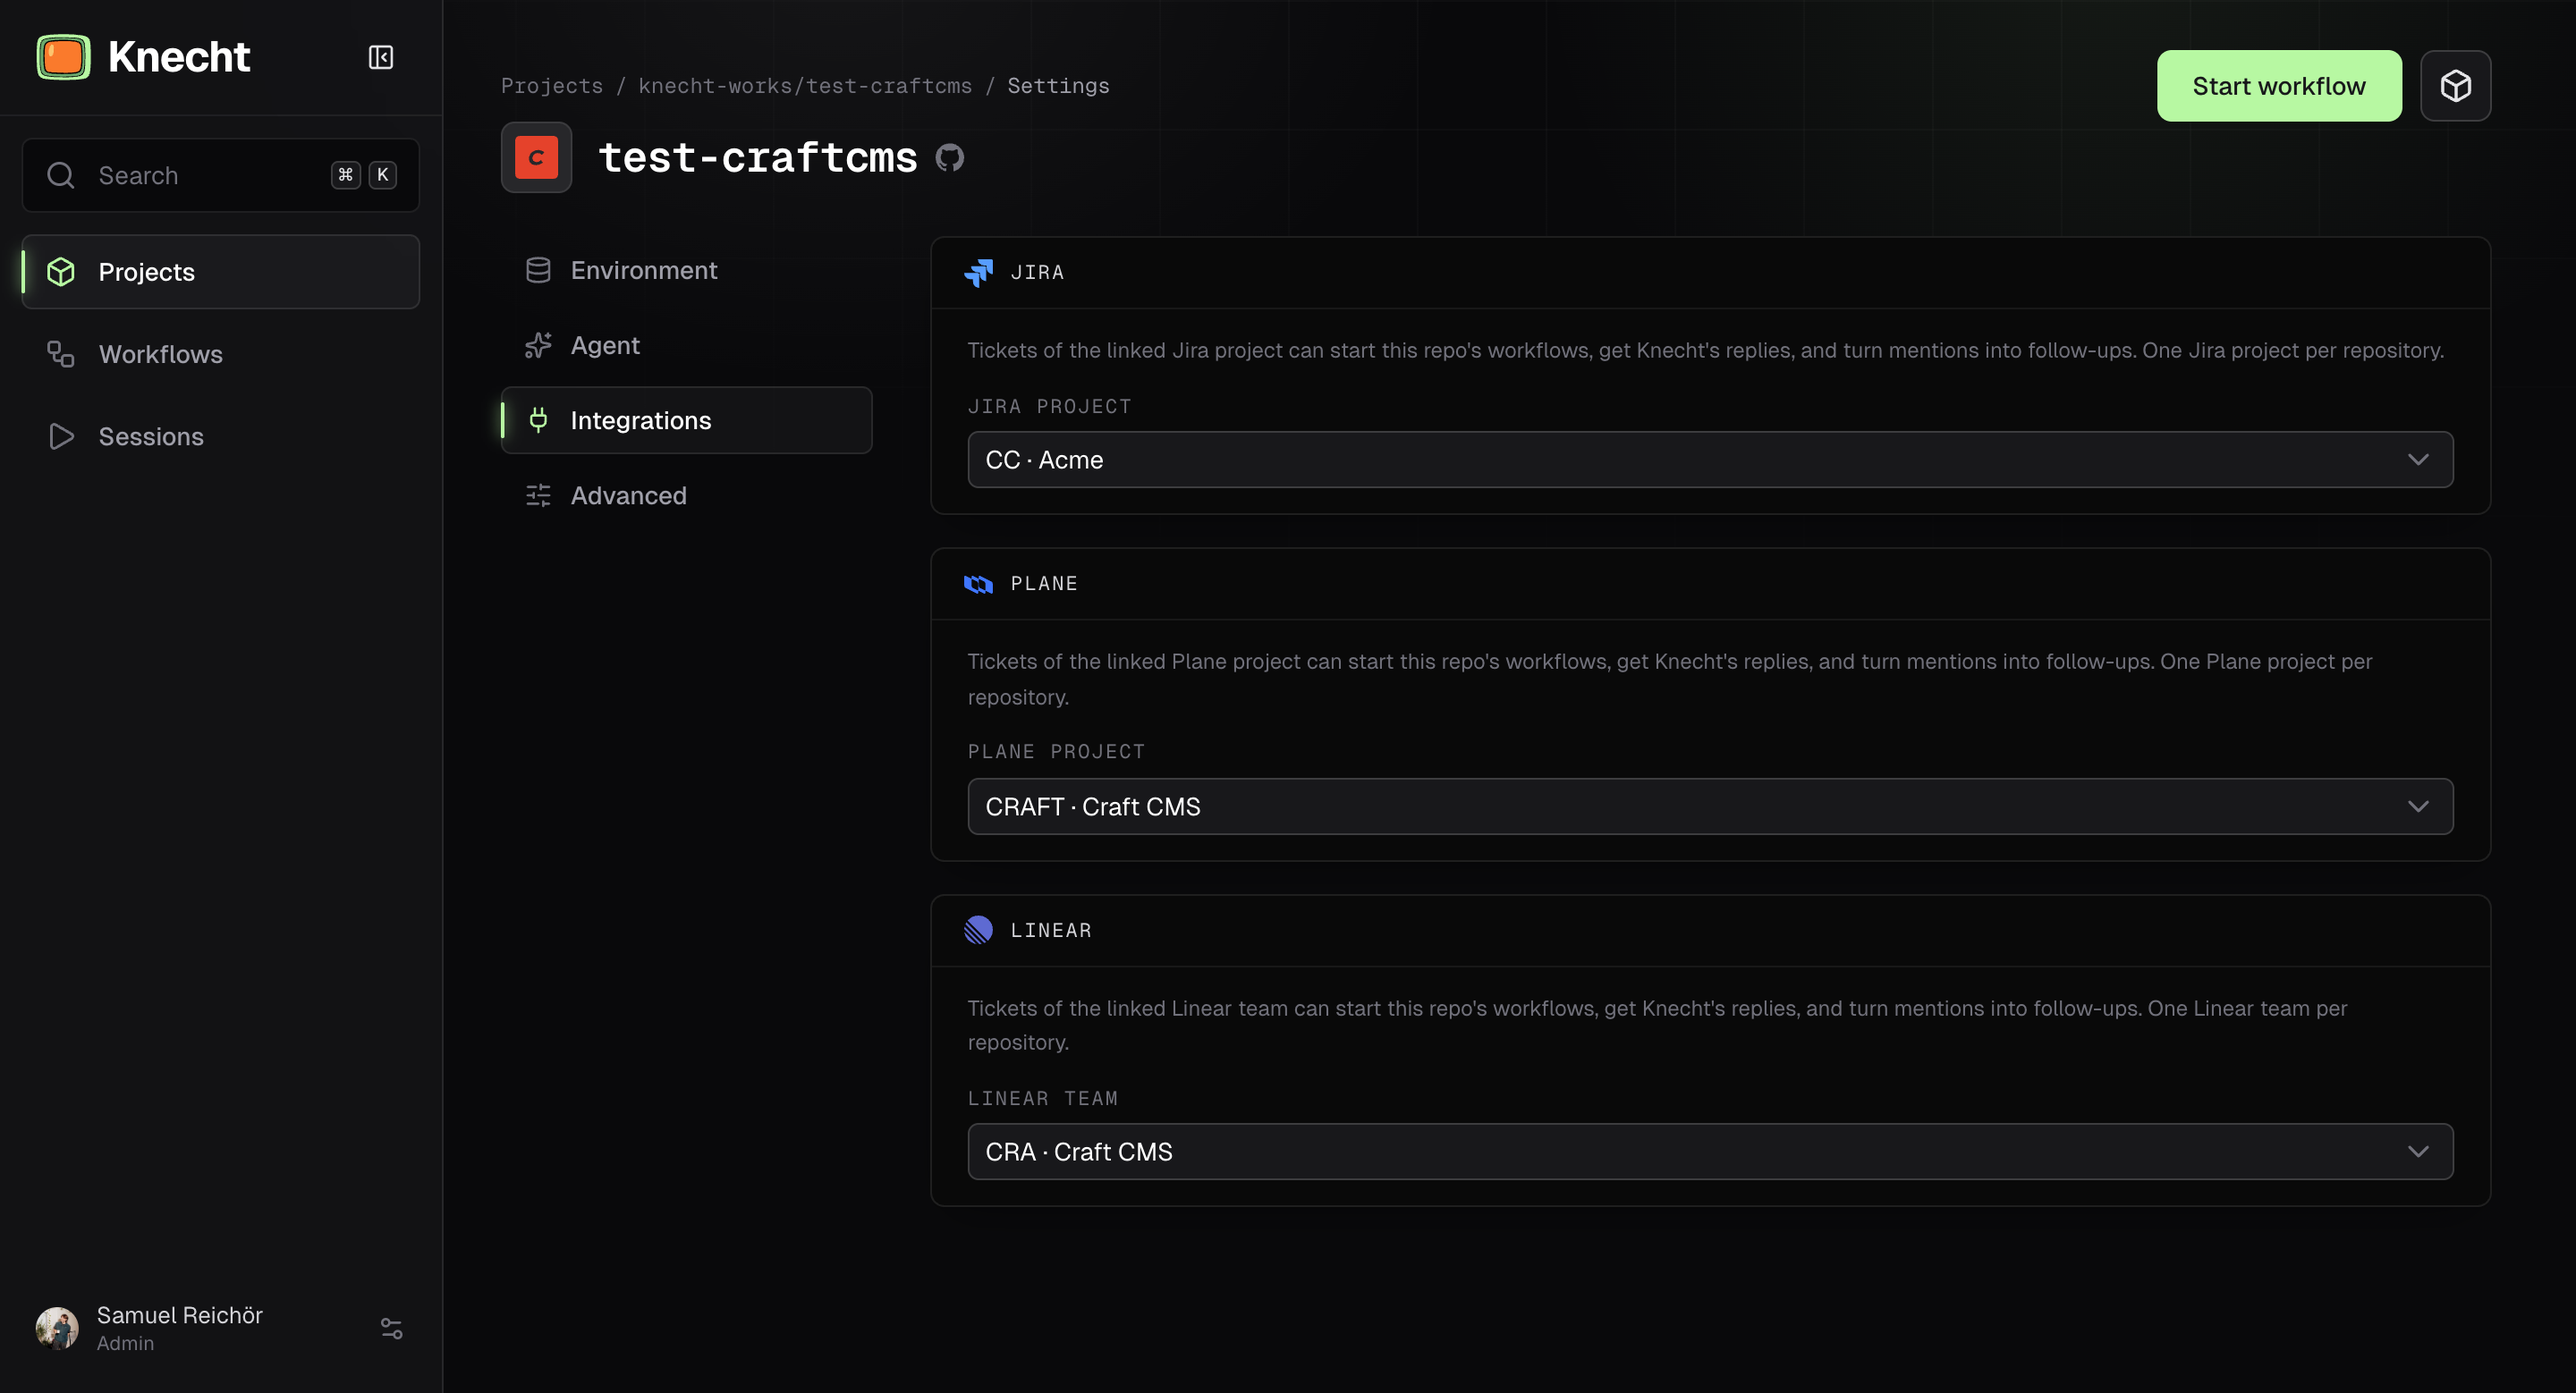
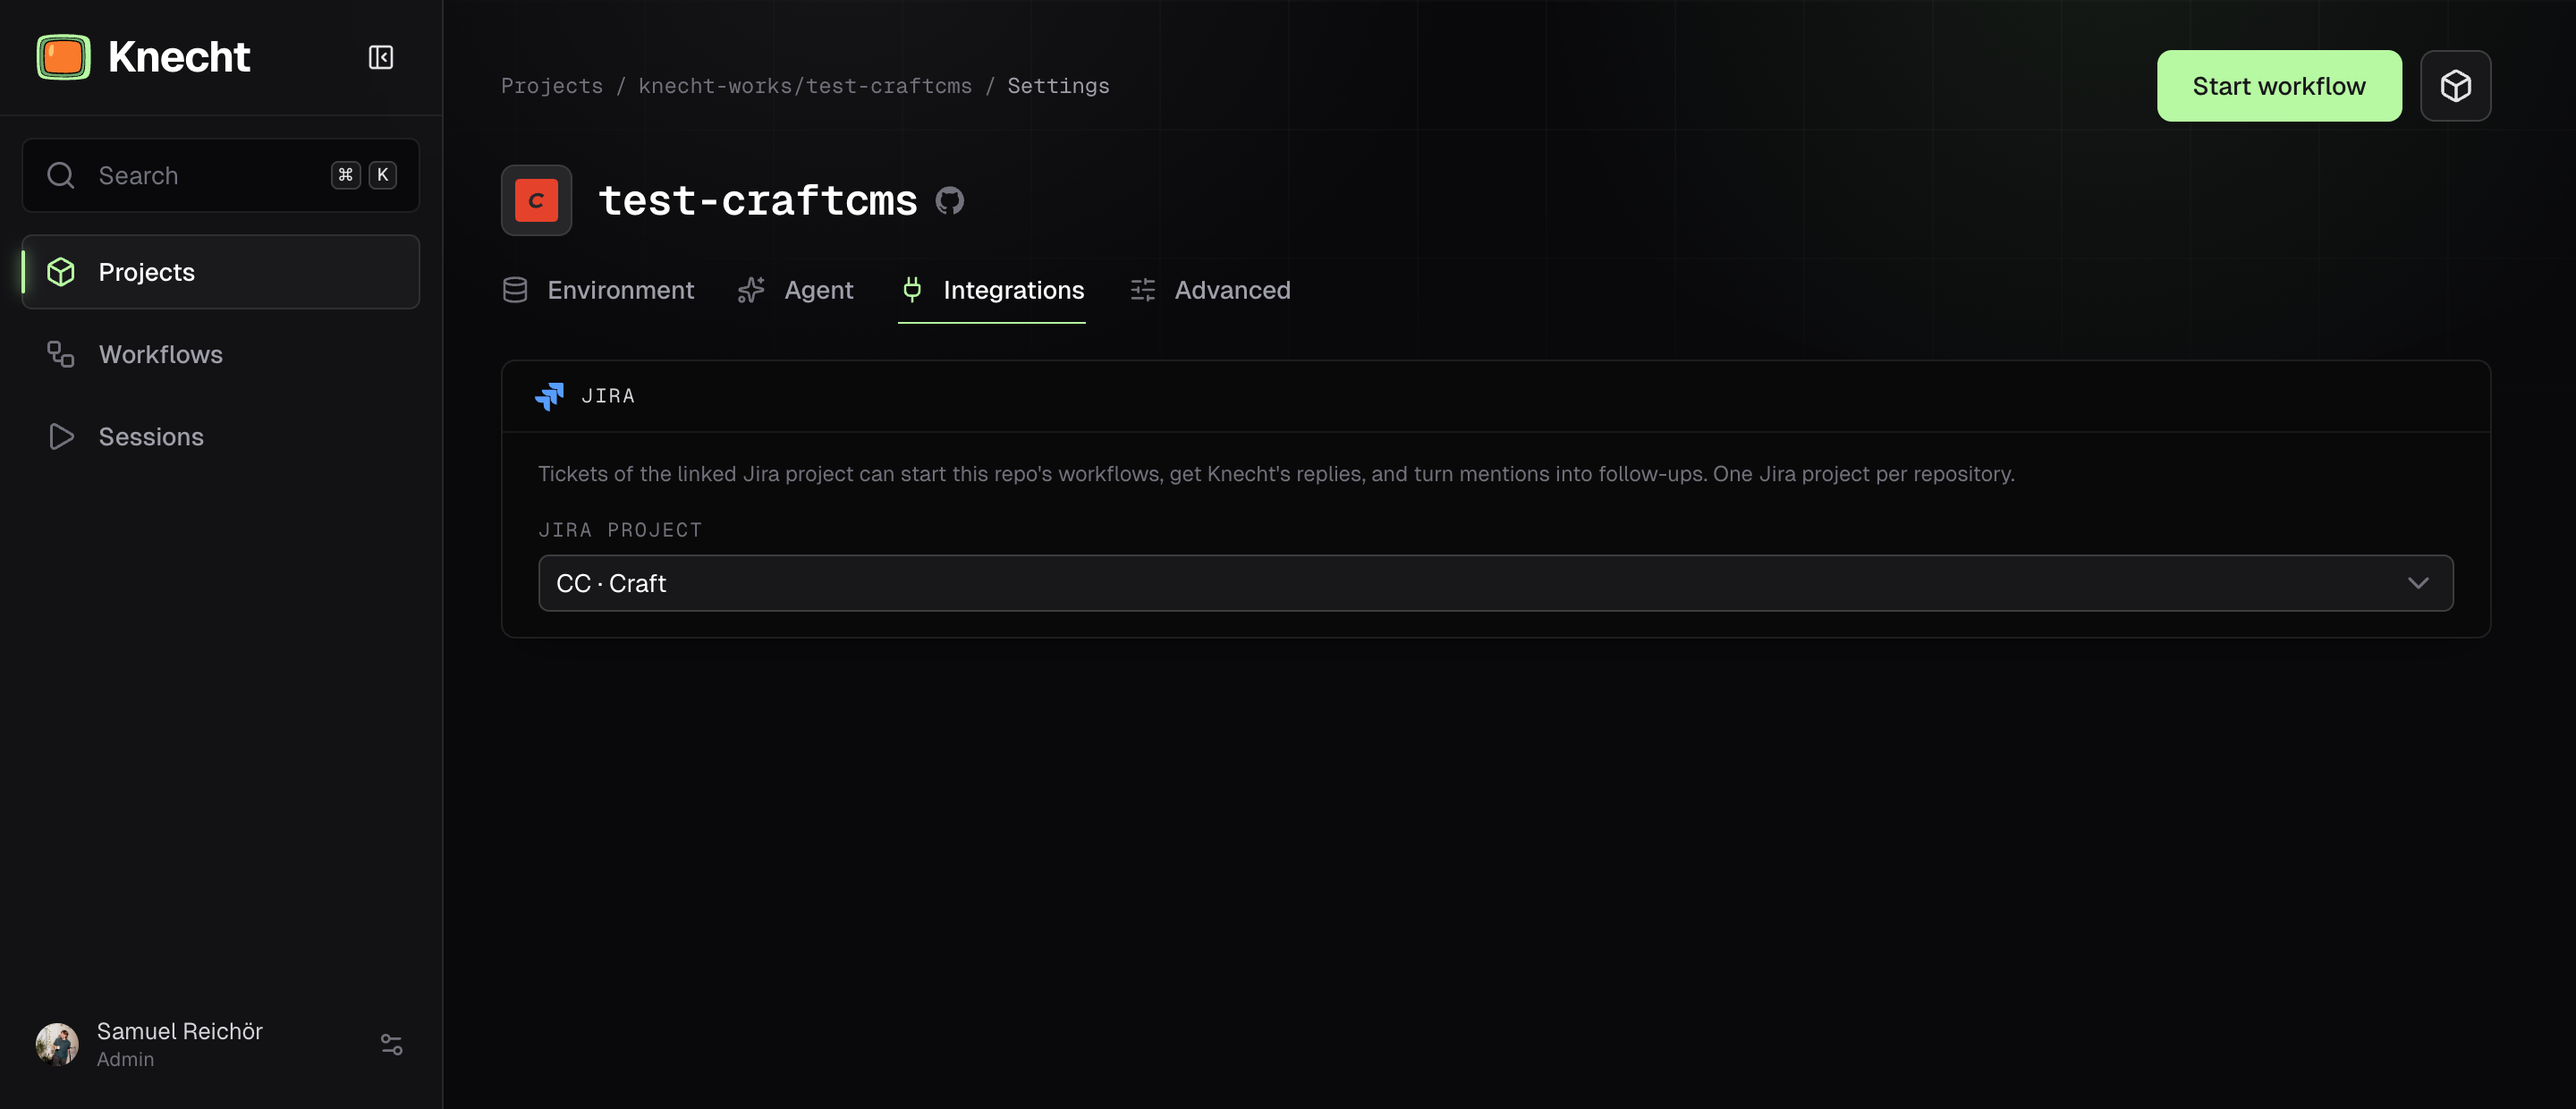
docs: Update docs for v0.16 with new project settings and lightweight containers

diff --git a/content/en/docs/1.get-started/2.concepts.md b/content/en/docs/1.get-started/2.concepts.md
@@ -3,13 +3,13 @@ title: Concepts
 description: The pieces you meet in the dashboard and how they fit together.
 ---
 
-A trigger starts a workflow on a project. Knecht boots the project in a session, runs the steps in order, and delivers what the last steps produced. This page explains each of these pieces, in the order a run touches them, and how the environments are isolated from each other.
+A trigger starts a workflow on a project. Knecht checks the project out in a session, runs the steps in order, boots the full environment when a step asks for it, and delivers what the last steps produced. This page explains each of these pieces, in the order a run touches them, and how the environments are isolated from each other.
 
 ![A project, a GitHub issue as trigger, a session with two runs and a follow-up mention, and a pull request and preview as result](/assets/knecht-concepts.png)
 
 ## Projects
 
-A project is a GitHub repository connected to Knecht. If the repo already ships a `.ddev/config.yaml`, Knecht boots from it as it is. If not, Knecht reads `composer.json`, `package.json`, `.nvmrc`, and the lockfile, and generates the environment itself. Environment variables and a database dump are stored on the project, so every run starts from a working state.
+A project is a GitHub repository connected to Knecht. If the repo already ships a `.ddev/config.yaml`, Knecht boots from it as it is. If not, Knecht reads `composer.json`, `package.json`, `.nvmrc`, and the lockfile, and generates the environment itself; the database, if the project needs one, is picked in the project settings. Environment variables and a database dump are stored on the project, so every run starts from a working state.
 
 Adding and configuring projects is covered on [Projects](/docs/usage/projects).
 
@@ -31,7 +31,9 @@ The agent, its instructions, and its memory are covered on [AI Agent](/docs/usag
 
 ## Sessions
 
-A session belongs to one GitHub issue or pull request, or to one issue in a connected issue tracker. It holds the checkout, the environment, and one shared agent conversation, so a follow-up mention continues where the last run stopped instead of starting over. The session closes with the issue and revives if the issue is reopened. Events without an issue, such as a schedule or a manual start, get a session of their own that closes after the single run.
+A session belongs to one GitHub issue or pull request, or to one issue in a connected issue tracker. It holds the checkout, one shared agent conversation, and, once a workflow has booted the project, the environment with its database and preview. A follow-up mention therefore continues where the last run stopped instead of starting over.
+
+A session starts light. Its steps, follow-ups, terminal, and IDE run in a workspace container that holds the checkout and the project's tools and starts in about a second. The "Boot project" step boots the full environment and turns the session into a preview session for good: every later step runs in the environment, and the session keeps its database and preview across runs. The session closes with the issue and revives if the issue is reopened. Events without an issue, such as a schedule or a manual start, get a session of their own that closes after the single run.
 
 ## Runs
 
@@ -41,14 +43,14 @@ A run is one execution of a workflow inside a session. Two triggers on the same 
 
 ## Previews
 
-Every session gets a preview URL. It shows the current state of the environment, stays the same across all runs of the session, and needs a Knecht login to open.
+Every session that has booted the project gets a preview URL. It shows the current state of the environment, stays the same across all runs of the session, and needs a Knecht login to open.
 
 ## Isolation
 
 Every session runs in its own environment on your server. Nothing inside it can reach the host or another session.
 
-- **Own checkout and containers.** A session gets its own clone of the repository and its own [DDEV](https://ddev.com) project, with a separate web container, database container, and volumes. Two sessions of the same project never share files or a database.
-- **Commands run inside the container.** Shell commands, JavaScript steps, the agent, the terminal, and the IDE all execute inside the session's web container as an unprivileged user. The Docker socket and the DDEV CLI stay on the Knecht side, so a step cannot start containers or touch the host.
+- **Own checkout and containers.** A session gets its own clone of the repository, its own workspace container, and, once booted, its own [DDEV](https://ddev.com) project with a separate web container, database container, and volumes. Two sessions of the same project never share files or a database.
+- **Commands run inside the container.** Shell commands, JavaScript steps, the agent, the terminal, and the IDE all execute inside the session's container as an unprivileged user: the workspace before the boot step, the web container after it. The Docker socket and the DDEV CLI stay on the Knecht side, so a step cannot start containers or touch the host.
 - **Sessions cannot see each other.** The containers are detached from DDEV's shared network and attached only to Knecht's ingress network. No ports are published on the host. Previews go through Knecht's proxy, container to container, behind the login.
 - **Short-lived credentials.** Git pushes from a session use an installation token that is scoped to the one repository and expires after about an hour. The AI key reaches the agent process as an environment variable, not as a file in the checkout.
 

diff --git a/content/en/docs/2.usage/1.projects.md b/content/en/docs/2.usage/1.projects.md
@@ -42,6 +42,7 @@ Without one, Knecht generates an environment from:
 - The PHP version from `composer.json`.
 - The Node version from `.nvmrc`, `engines.node`, a mise config, or `.tool-versions`.
 - The package manager from the lockfile.
+- The database from the project settings: MariaDB, MySQL, or PostgreSQL in the versions DDEV supports, or none. Without a choice the environment has no database container.
 
 ::note
 If a project outside the tested list misbehaves, that is a bug worth reporting. One known difference to local DDEV concerns Vite dev servers, which in some setups need one line of config. The cases are collected on [Troubleshooting](/docs/resources/troubleshooting).
@@ -62,12 +63,12 @@ Pick a repository from those the GitHub App is installed on, and a branch. It de
 Paste the project's `.env`, one `KEY=value` per line, or skip and add them later.
 
 ::tip
-Values can use `$KNECHT_PREVIEW_URL` and `$KNECHT_DEV_SERVER_URL`. Knecht fills them per run, so a variable such as `APP_URL=$KNECHT_PREVIEW_URL` always points at the current preview.
+Values can use `$KNECHT_PREVIEW_URL` and `$KNECHT_DEV_SERVER_URL`. Knecht fills them per run, so a variable such as `APP_URL=$KNECHT_PREVIEW_URL` always points at the current preview. The preview URL also resolves from inside the environment, so a server-rendered frontend that fetches from its own URL reaches itself.
 ::
 
 ### Import a Database
 
-Upload a dump as `.sql`, `.gz`, `.zip`, `.bz2`, `.xz`, `.tar`, or `.mysql`. It is imported into the environment on the first boot and stays there for later runs. Without a dump, the project boots with an empty database.
+Upload a dump as `.sql`, `.gz`, `.zip`, `.bz2`, `.xz`, `.tar`, or `.mysql`. It is imported into the environment on the first boot and stays there for later runs. Without a dump, the project boots with an empty database. A project without a ddev config needs a database picked in its settings first, otherwise the environment has none.
 
 ### Boot and Preview
 
@@ -79,4 +80,4 @@ The last step offers "Open project" and, as long as the bundled `boot-and-previe
 
 Everything from the guided setup lives in the project settings and can be changed there. "Settings" in the top right of the project page opens them. Beyond the setup values, the settings hold the Mentions panel with the starter workflow, a link panel for each connected issue tracker, and "Persistent folders" for files that should survive across runs.
 
-![The Environment page of the project settings, with panels for env variables, boot commands, environment, dev server, database dump, and persistent folders](/assets/knecht-project-settings.png)
+![The Environment tab of the project settings, with panels for env variables, boot commands, dev server, environment, database dump, and persistent folders](/assets/knecht-project-settings.png)

diff --git a/content/en/docs/1.get-started/1.introduction.md b/content/en/docs/1.get-started/1.introduction.md
@@ -25,7 +25,7 @@ It is aimed at agencies and freelancers that maintain many projects at once. The
 | Triggers | GitHub events, changes in an [issue tracker](/docs/usage/triggers#trigger-types), a schedule, or a click in the dashboard. One workflow can serve several projects. |
 | Mentions | `@knecht-works <instruction>` in a GitHub issue or pull request, or a mention of the Knecht account in an issue tracker, continues the work where the last run stopped. |
 | Previews | Every session gets a URL under your domain with a real database behind it, gated by the Knecht login. |
-| Terminal and IDE | Open a shell, an SSH command, or VS Code in the running environment from the run page. |
+| Terminal and IDE | Open a shell, an SSH command, or VS Code in the session's container from the run page, with or without a booted preview. |
 | Retry | A failed run resumes from the step where it stopped, earlier outputs are kept. |
 | Environment lifecycle | Idle environments are stopped, archived, and removed on schedules you set. |
 | Team access | Members sign in with GitHub. An allowlist decides who gets in. |

diff --git a/content/en/docs/1.get-started/3.installation.md b/content/en/docs/1.get-started/3.installation.md
@@ -27,6 +27,10 @@ Keep the host free of other Docker setups. Knecht boots the project environments
 
 The installer stops on other distributions. Other Ubuntu and Debian versions install with a warning, but are not tested.
 
+### Docker
+
+Docker 28 or newer. The installer installs it on a host without Docker. On a host with an older Docker it stops, upgrade Docker first and run it again.
+
 ### Hardware
 
 | | Minimum | Comfortable |
@@ -34,7 +38,7 @@ The installer stops on other distributions. Other Ubuntu and Debian versions ins
 | RAM | 4 GB | 8 GB |
 | Disk | 40 GB | 80 GB |
 
-Every running preview costs one web and one database container. More parallel previews need more RAM.
+Every running preview costs one web and one database container, a session without a preview one lightweight container. More parallel previews need more RAM.
 
 ### Domain and Network
 

diff --git a/content/en/docs/3.integrations/3.plane.md b/content/en/docs/3.integrations/3.plane.md
@@ -53,6 +53,8 @@ Knecht uses the work item events created, updated, archived, and deleted, and th
 
 Open the settings of a project in Knecht. The Plane panel has one field, "Plane project", listing the projects the account is a member of. Pick the one whose work items belong to this repository. One Plane project links to one repository and the other way round. Only linked projects can have Plane triggers.
 
+![The Integrations tab of the project settings, with the Plane panel and its Plane project field set to a project](/assets/knecht-project-settings-plane.png)
+
 ### Check That Events Arrive
 
 Edit any work item in the linked Plane project. The status line in the Plane panel under Settings, Integrations switches to "Receiving events" with the last event and work item key. If it does not:

diff --git a/content/en/docs/3.integrations/4.linear.md b/content/en/docs/3.integrations/4.linear.md
@@ -52,6 +52,8 @@ The form already shows the signing secret, it starts with `lin_wh_`. Copy it, cl
 
 Open the settings of a project in Knecht. The Linear panel has one field, "Linear team", listing the teams the account can access. Pick the one whose issues belong to this repository. One Linear team links to one repository and the other way round. Only linked projects can have Linear triggers.
 
+![The Integrations tab of the project settings, with the Linear panel and its Linear team field set to a team](/assets/knecht-project-settings-linear.png)
+
 ### Check That Events Arrive
 
 Edit any issue of the linked team. The status line in the Linear panel under Settings, Integrations switches to "Receiving events" with the last event and issue identifier. If it does not:

diff --git a/content/en/docs/3.integrations/2.jira.md b/content/en/docs/3.integrations/2.jira.md
@@ -56,7 +56,7 @@ Save the webhook at the bottom of the form. The summary should list the issue ev
 
 Open the settings of a project in Knecht. The Jira panel has one field, "Jira project", listing the projects the account can see. Pick the one whose tickets belong to this repository. One Jira project links to one repository and the other way round. Only linked projects can have Jira triggers.
 
-![The Integrations page of the project settings, with the Jira project field set to a project and the Plane and Linear panels below](/assets/knecht-project-settings-jira.png)
+![The Integrations tab of the project settings, with the Jira panel and its Jira project field set to a project](/assets/knecht-project-settings-jira.png)
 
 ### Check That Events Arrive
 

diff --git a/content/en/docs/2.usage/2.workflows.md b/content/en/docs/2.usage/2.workflows.md
@@ -3,7 +3,7 @@ title: Workflows
 description: Build, trigger, and test workflows for your projects.
 ---
 
-A workflow is a list of steps Knecht runs on a project, one after the other, inside the project's own environment. Each step executes one action. A workflow is built once and can then be started by hand or by a trigger on any number of projects.
+A workflow is a list of steps Knecht runs on a project, one after the other, inside the project's own containers. Each step executes one action. A workflow is built once and can then be started by hand or by a trigger on any number of projects.
 
 ## Building a Workflow
 
